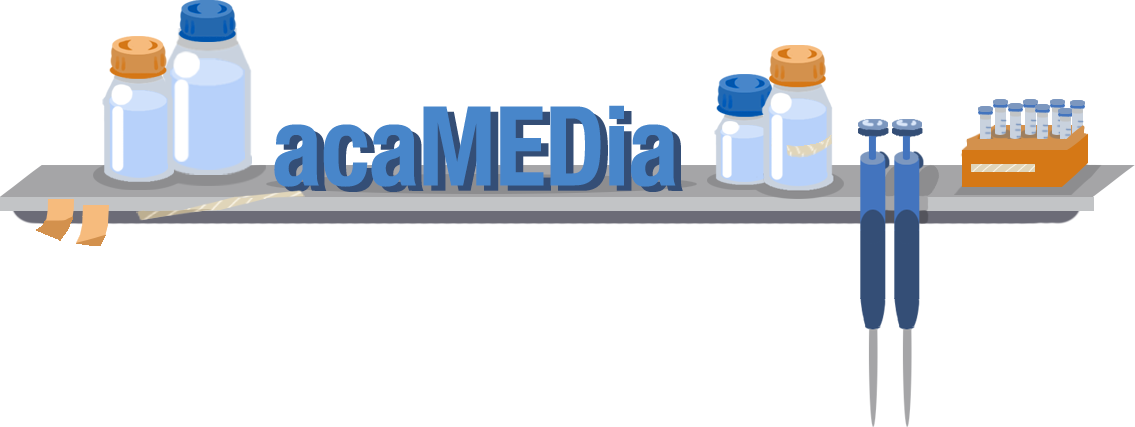
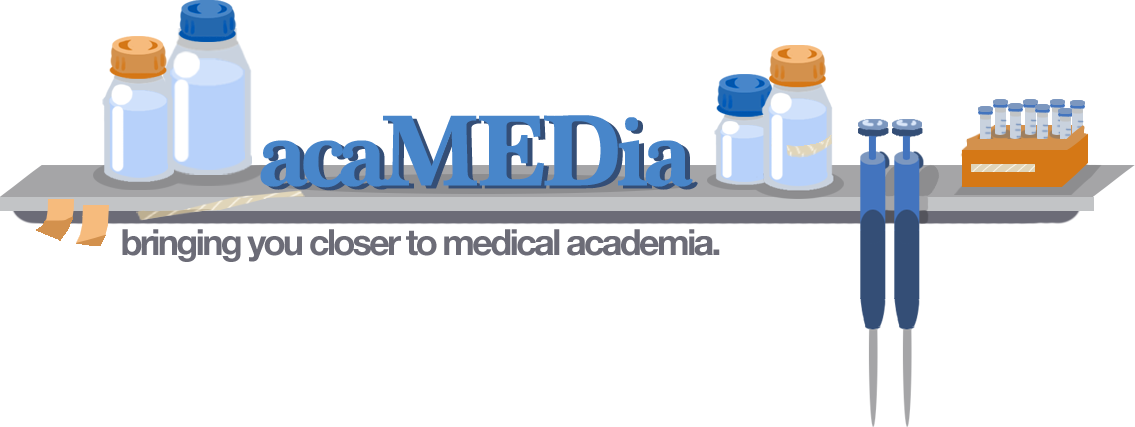
position search bars

Changed region(s): [[0.2159, 0.2436, 0.6167, 0.4567], [0.0925, 0.5176, 0.6476, 0.6089]]

diff --git a/src/Containers/Home.vue b/src/Containers/Home.vue
@@ -1,8 +1,12 @@
 <template>
     <div class="home" id="home">
-        <img class="logo" alt="acaMEDia logo" src="../assets/acamedia-header.png">
-        <search-bar v-on:search="searchHandler"></search-bar>
-        <location-bar v-on:updateOptions="updateLocationHandler"></location-bar>
+        <div class="container" id="header-container">
+            <img id="header-img" class="logo" alt="acaMEDia logo" src="../assets/acamedia-header.png">
+            <div id="stuff-on-header-img">
+                <search-bar v-on:search="searchHandler"></search-bar>
+                <location-bar v-on:updateOptions="updateLocationHandler"></location-bar>
+            </div>
+        </div>
         <homeContent class="about" title="About">
             <div>
                 <p>
@@ -67,5 +71,21 @@
 <style scoped>
     .home{
         background-color: #d8e5f8;
+        color: #6c6c77;
     }
+    #header-container{
+        position:relative;
+    }
+    #header-img{
+        width:100%;
+        margin-top: 20px;
+        margin-left: auto;
+        margin-right: auto;
+        display: block;
+    }
+    #stuff-on-header-img{
+        position: absolute;
+        bottom: 10px;
+    }
+
 </style>

diff --git a/src/components/toolbar.vue b/src/components/toolbar.vue
@@ -1,8 +1,10 @@
 <template>
-    <div id="'toolbar">
-        <button v-on:click="$emit('scroll-down', 'logo')">Home</button>
-        <button v-on:click="$emit('scroll-down', 'about')">About</button>
-        <button v-on:click="$emit('scroll-down', 'contact')">Contact</button>
+    <div id="toolbar">
+        <nav class="navbar navbar-expand-lg navbar-light bg-light">
+            <a class="toolbar-button" href="#">Home</a>
+            <a class="toolbar-button" v-on:click="$emit('scroll-down', 'about')">About</a>
+            <a class="toolbar-button" v-on:click="$emit('scroll-down', 'contact')">Contact</a>
+        </nav>
     </div>
 </template>
 
@@ -13,5 +15,7 @@
 </script>
 
 <style scoped>
+    #toolbar{
+    }
 
 </style>

diff --git a/src/App.vue b/src/App.vue
@@ -96,7 +96,6 @@
   font-family: 'Avenir', Helvetica, Arial, sans-serif;
   -webkit-font-smoothing: antialiased;
   -moz-osx-font-smoothing: grayscale;
-  color: #2c3e50;
-  margin-top: 60px;
+  background-color: #d8e5f8;
 }
 </style>
